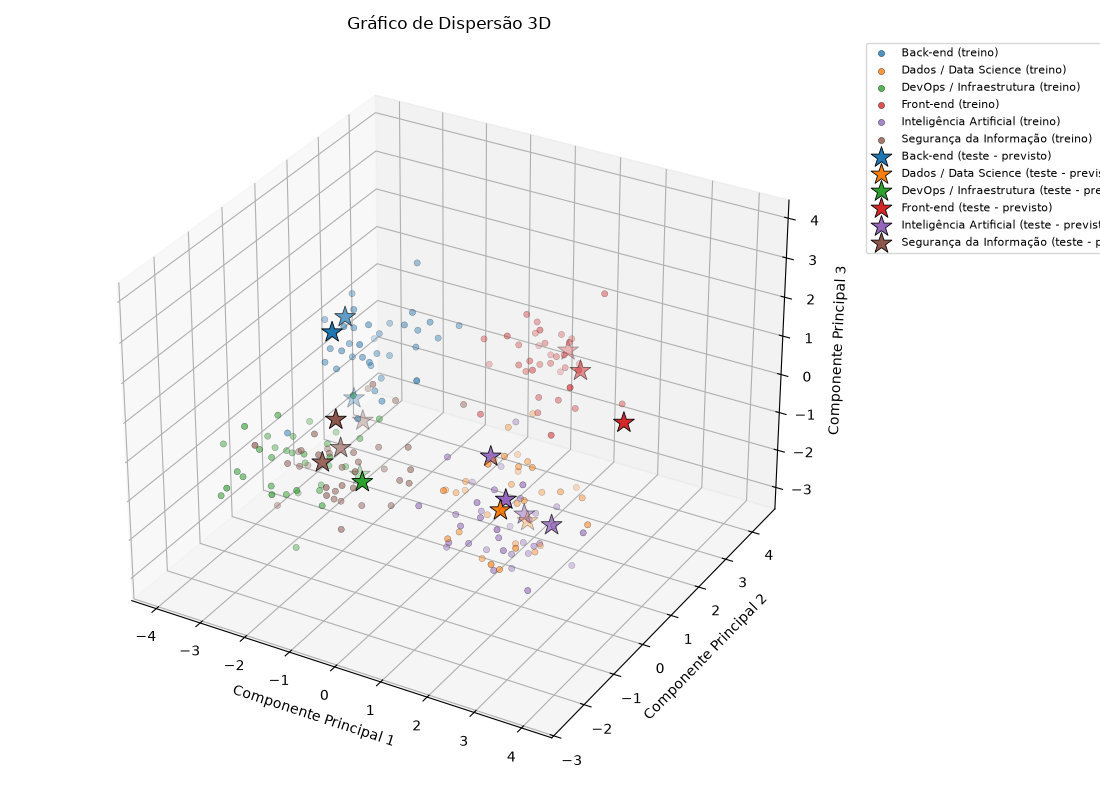
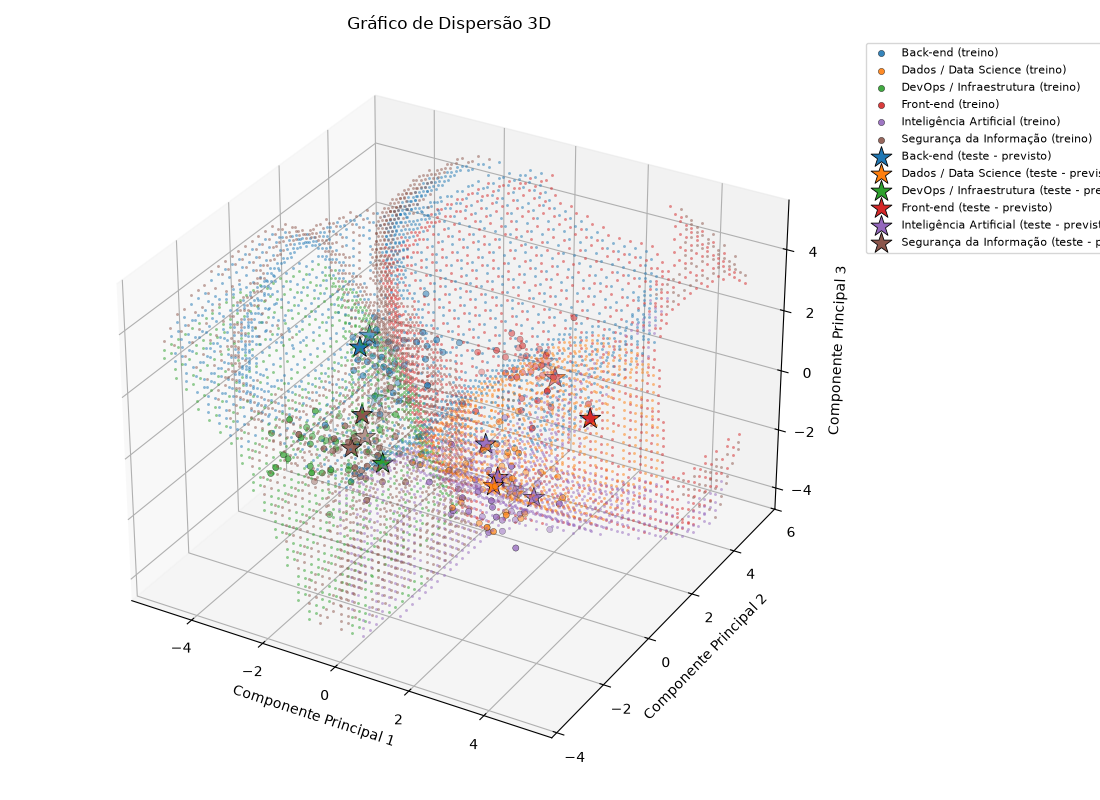
feat: Implementado o mapa de hiperplano na geração de grafico

diff --git a/src/visualizacao.py b/src/visualizacao.py
@@ -1,9 +1,13 @@
 import matplotlib.pyplot as plt
 import seaborn as sns
+import numpy as np
 import pandas as pd
 
+from matplotlib.colors import ListedColormap, BoundaryNorm
 from sklearn.decomposition import PCA
 from mpl_toolkits.mplot3d import Axes3D  # noqa: F401 - necessário para habilitar a projeção 3D
+
+from src.modelo_svm import criar_modelo
 
 
 def _reduzir_dimensionalidade(X_treino, X_teste, n_componentes):
@@ -30,13 +34,60 @@ def _cores_por_classe(y_treino, y_teste_predita):
     return classes, dict(zip(classes, paleta))
 
 
+def _treinar_modelo_visualizacao(componentes, rotulos):
+    """
+    O SVM real do pipeline é treinado com as 10 características originais
+    (q1..q10), cujo hiperplano não pode ser desenhado diretamente. Para
+    ilustrar visualmente a fronteira de decisão, um SVM auxiliar (mesmos
+    hiperparâmetros de src.modelo_svm.criar_modelo) é treinado apenas sobre
+    as componentes principais já reduzidas (2D ou 3D).
+    """
+
+    modelo_visualizacao = criar_modelo()
+    modelo_visualizacao.fit(componentes, rotulos)
+
+    return modelo_visualizacao
+
+
+def _mapa_indices_classe(classes):
+    return {classe: indice for indice, classe in enumerate(classes)}
+
+
 def grafico_dispersao_2d(X_treino, y_treino, X_teste, y_teste_predita):
 
     componentes_treino, componentes_teste = _reduzir_dimensionalidade(X_treino, X_teste, 2)
+    componentes_completo = np.vstack([componentes_treino, componentes_teste])
+    rotulos_completo = np.concatenate([y_treino.to_numpy(), y_teste_predita.to_numpy()])
 
     classes, cor_por_classe = _cores_por_classe(y_treino, y_teste_predita)
+    paleta = [cor_por_classe[classe] for classe in classes]
+    indice_por_classe = _mapa_indices_classe(classes)
+
+    modelo_visualizacao = _treinar_modelo_visualizacao(componentes_completo, rotulos_completo)
+
+    margem = 1.0
+    resolucao = 300
+
+    x_min, x_max = componentes_completo[:, 0].min() - margem, componentes_completo[:, 0].max() + margem
+    y_min, y_max = componentes_completo[:, 1].min() - margem, componentes_completo[:, 1].max() + margem
+
+    xx, yy = np.meshgrid(
+        np.linspace(x_min, x_max, resolucao),
+        np.linspace(y_min, y_max, resolucao)
+    )
+
+    grade = np.column_stack([xx.ravel(), yy.ravel()])
+    previsoes_grade = modelo_visualizacao.predict(grade)
+    zz = np.vectorize(indice_por_classe.get)(previsoes_grade).reshape(xx.shape)
+
+    cmap = ListedColormap(paleta)
+    norm = BoundaryNorm(np.arange(len(classes) + 1) - 0.5, cmap.N)
 
     plt.figure(figsize=(10, 7))
+
+    # Regiões coloridas = decisão do SVM; linhas pretas = hiperplano de separação entre as classes
+    plt.contourf(xx, yy, zz, cmap=cmap, norm=norm, alpha=0.25)
+    plt.contour(xx, yy, zz, colors="black", linewidths=0.6, alpha=0.6)
 
     for classe in classes:
         mascara = (y_treino == classe).to_numpy()
@@ -81,11 +132,63 @@ def grafico_dispersao_2d(X_treino, y_treino, X_teste, y_teste_predita):
 def grafico_dispersao_3d(X_treino, y_treino, X_teste, y_teste_predita):
 
     componentes_treino, componentes_teste = _reduzir_dimensionalidade(X_treino, X_teste, 3)
+    componentes_completo = np.vstack([componentes_treino, componentes_teste])
+    rotulos_completo = np.concatenate([y_treino.to_numpy(), y_teste_predita.to_numpy()])
 
     classes, cor_por_classe = _cores_por_classe(y_treino, y_teste_predita)
+    indice_por_classe = _mapa_indices_classe(classes)
+
+    modelo_visualizacao = _treinar_modelo_visualizacao(componentes_completo, rotulos_completo)
+
+    margem = 1.0
+    resolucao = 35
+
+    minimos = componentes_completo.min(axis=0) - margem
+    maximos = componentes_completo.max(axis=0) + margem
+
+    xx, yy, zz = np.meshgrid(
+        np.linspace(minimos[0], maximos[0], resolucao),
+        np.linspace(minimos[1], maximos[1], resolucao),
+        np.linspace(minimos[2], maximos[2], resolucao)
+    )
+
+    grade = np.column_stack([xx.ravel(), yy.ravel(), zz.ravel()])
+    previsoes_grade = modelo_visualizacao.predict(grade)
+    indices_grade = np.vectorize(indice_por_classe.get)(previsoes_grade).reshape(xx.shape)
+
+    # Um ponto da grade pertence ao hiperplano de separação quando pelo menos
+    # um vizinho imediato (em x, y ou z) é classificado em uma área diferente.
+    fronteira = np.zeros_like(indices_grade, dtype=bool)
+    for eixo_grade in range(3):
+        diferentes = np.diff(indices_grade, axis=eixo_grade) != 0
+        fatia_anterior = [slice(None)] * 3
+        fatia_posterior = [slice(None)] * 3
+        fatia_anterior[eixo_grade] = slice(None, -1)
+        fatia_posterior[eixo_grade] = slice(1, None)
+        fronteira[tuple(fatia_anterior)] |= diferentes
+        fronteira[tuple(fatia_posterior)] |= diferentes
+
+    pontos_fronteira = grade[fronteira.ravel()]
+    classes_fronteira = indices_grade[fronteira]
 
     fig = plt.figure(figsize=(11, 8))
     eixo = fig.add_subplot(111, projection="3d")
+
+    # Pontos da superfície de fronteira = hiperplano de separação entre as classes
+    for classe in classes:
+        mascara_grade = classes_fronteira == indice_por_classe[classe]
+        if mascara_grade.any():
+            eixo.scatter(
+                pontos_fronteira[mascara_grade, 0],
+                pontos_fronteira[mascara_grade, 1],
+                pontos_fronteira[mascara_grade, 2],
+                color=cor_por_classe[classe],
+                marker=".",
+                s=18,
+                alpha=0.5,
+                linewidth=0,
+                depthshade=False
+            )
 
     for classe in classes:
         mascara = (y_treino == classe).to_numpy()
@@ -99,7 +202,7 @@ def grafico_dispersao_3d(X_treino, y_treino, X_teste, y_teste_predita):
                 label=f"{classe} (treino)",
                 edgecolor="black",
                 linewidth=0.3,
-                alpha=0.8
+                alpha=0.9
             )
 
     for classe in classes:

diff --git a/README.md b/README.md
@@ -69,6 +69,7 @@ Aplica o mesmo pré-processamento do treinamento às respostas reais do quiz (`d
 
 ### `src/visualizacao.py`
 - **`grafico_dispersao_2d` / `grafico_dispersao_3d`**: reduzem as 10 respostas (`q1`..`q10`) para 2 ou 3 dimensões via `PCA`, plotando treino (círculos) e previsões reais do quiz (estrelas) coloridos por área de TI, permitindo visualizar agrupamentos e a separação entre classes. Títulos: "Gráfico de Dispersão 2D" e "Gráfico de Dispersão 3D".
+- **Hiperplano de separação**: como o SVM real é treinado com as 10 características originais (não visualizáveis diretamente), um SVM auxiliar (mesmos hiperparâmetros de `criar_modelo`) é treinado sobre as próprias componentes principais (2D/3D) só para fins de visualização. No gráfico 2D, as regiões de decisão são desenhadas com `contourf` e a fronteira entre elas com `contour` (linhas pretas). No gráfico 3D, uma grade tridimensional é classificada pelo modelo auxiliar e apenas os pontos onde a classe prevista muda em relação a um vizinho (fronteira de decisão) são plotados, formando uma superfície pontilhada que representa o hiperplano entre as classes.
 
 ## Como executar
 
